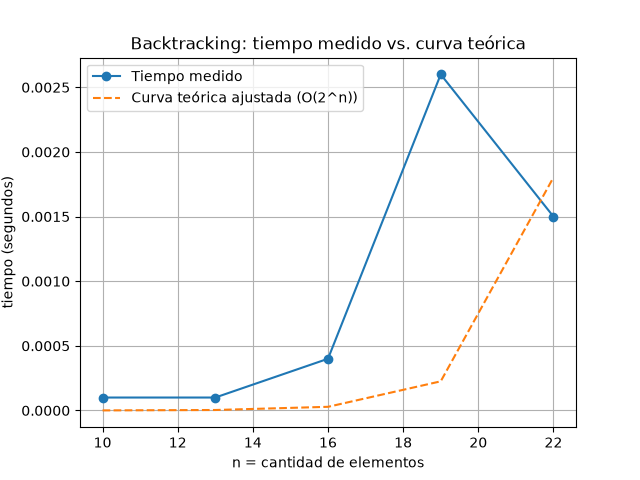
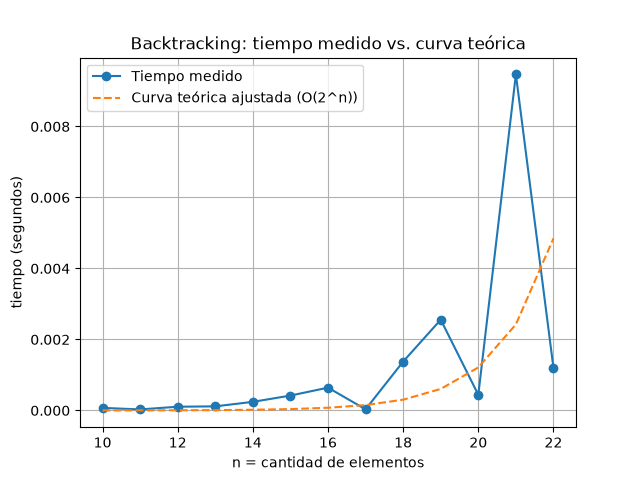
feat: nuevos graficos y corrida con mas muestras

diff --git a/problema_1/solucion_fuerza_bruta.py b/problema_1/solucion_fuerza_bruta.py
@@ -15,9 +15,8 @@ beneficio total.
 Se implementa asi intencionalmente (sin poda): sirve como base de
 comparacion contra la version con backtracking (con poda) que se resuelve
 en otro archivo. Por eso mismo, solo es practico para valores de n chicos;
-este script procesa los archivos mochila10.txt, mochila13.txt,
-mochila16.txt, mochila19.txt y mochila22.txt generados por
-crear_mochila.py, y guarda los tiempos obtenidos en un CSV para poder
+este script procesa los archivos mochila10.txt ... mochila22.txt (uno por
+cada n entre 10 y 22) generados por crear_mochila.py, y guarda los tiempos obtenidos en un CSV para poder
 graficarlos despues.
 """
 
@@ -27,13 +26,12 @@ import time
 
 # Archivos de mochila a procesar, en orden creciente de tamano. Se asume
 # que estan en la subcarpeta casos/, generados con crear_mochila.py.
-ARCHIVOS_MOCHILA = [
-    "mochila10.txt",
-    "mochila13.txt",
-    "mochila16.txt",
-    "mochila19.txt",
-    "mochila22.txt",
-]
+ARCHIVOS_MOCHILA = [f"mochila{n}.txt" for n in range(10, 23)]
+
+# Cantidad de veces que se resuelve cada archivo. El tiempo que se guarda
+# es el promedio de todas las repeticiones, para que una medicion aislada
+# afectada por ruido del sistema no distorsione los graficos.
+REPETICIONES = 5
 
 # Carpeta donde vive este script y subcarpeta donde estan los archivos de
 # entrada. El CSV de salida se sigue guardando junto al script.
@@ -131,11 +129,14 @@ if __name__ == "__main__":
         capacidad, items = parsear_mochila(ruta_archivo)
         n = len(items)
 
-        inicio = time.perf_counter()
-        beneficio_maximo, indices_elegidos, peso_total = fuerza_bruta(capacidad, items)
-        fin = time.perf_counter()
+        tiempos = []
+        for _ in range(REPETICIONES):
+            inicio = time.perf_counter()
+            beneficio_maximo, indices_elegidos, peso_total = fuerza_bruta(capacidad, items)
+            fin = time.perf_counter()
+            tiempos.append(fin - inicio)
 
-        tiempo_ejecucion = fin - inicio
+        tiempo_ejecucion = sum(tiempos) / REPETICIONES
 
         print(
             f"n={n} | capacidad={capacidad} | beneficio_maximo={beneficio_maximo} "
@@ -148,7 +149,7 @@ if __name__ == "__main__":
                 "capacidad": capacidad,
                 "beneficio_maximo": beneficio_maximo,
                 "peso_usado": peso_total,
-                "tiempo_segundos": round(tiempo_ejecucion, 6),
+                "tiempo_segundos": round(tiempo_ejecucion, 8),
             }
         )
 

diff --git a/problema_1/solucion_backtracking.py b/problema_1/solucion_backtracking.py
@@ -33,13 +33,12 @@ import time
 
 # Archivos de mochila a procesar, en orden creciente de tamano. Se asume
 # que estan en la subcarpeta casos/, generados con crear_mochila.py.
-ARCHIVOS_MOCHILA = [
-    "mochila10.txt",
-    "mochila13.txt",
-    "mochila16.txt",
-    "mochila19.txt",
-    "mochila22.txt",
-]
+ARCHIVOS_MOCHILA = [f"mochila{n}.txt" for n in range(10, 23)]
+
+# Cantidad de veces que se resuelve cada archivo. El tiempo que se guarda
+# es el promedio de todas las repeticiones, para que una medicion aislada
+# afectada por ruido del sistema no distorsione los graficos.
+REPETICIONES = 5
 
 # Carpeta donde vive este script y subcarpeta donde estan los archivos de
 # entrada. El CSV de salida se sigue guardando junto al script.
@@ -180,11 +179,14 @@ if __name__ == "__main__":
         capacidad, items = parsear_mochila(ruta_archivo)
         n = len(items)
 
-        inicio = time.perf_counter()
-        beneficio_maximo, indices_elegidos, peso_total = mochila_backtracking(capacidad, items)
-        fin = time.perf_counter()
+        tiempos = []
+        for _ in range(REPETICIONES):
+            inicio = time.perf_counter()
+            beneficio_maximo, indices_elegidos, peso_total = mochila_backtracking(capacidad, items)
+            fin = time.perf_counter()
+            tiempos.append(fin - inicio)
 
-        tiempo_ejecucion = fin - inicio
+        tiempo_ejecucion = sum(tiempos) / REPETICIONES
 
         print(
             f"n={n} | capacidad={capacidad} | beneficio_maximo={beneficio_maximo} "
@@ -197,7 +199,7 @@ if __name__ == "__main__":
                 "capacidad": capacidad,
                 "beneficio_maximo": beneficio_maximo,
                 "peso_usado": peso_total,
-                "tiempo_segundos": round(tiempo_ejecucion, 4),
+                "tiempo_segundos": round(tiempo_ejecucion, 8),
             }
         )
 

diff --git a/problema_1/crear_mochila.py b/problema_1/crear_mochila.py
@@ -16,7 +16,7 @@ def crear_mochila(n):
         arch.write(str(peso)+","+str(benef)+"\n")
     arch.close()
     
-for n in [10, 13, 16, 19, 22]:
+for n in range(10, 23):
     crear_mochila(n)
 
 # Esta función crea una mochila con una lista del tamaño indicado como parámetro

diff --git a/problema_1/README.md b/problema_1/README.md
@@ -17,7 +17,7 @@ Ambos enfoques llegan exactamente al mismo resultado óptimo; lo que cambia es e
 |---|---|
 | `casos/` | Archivos `.txt` con las instancias de mochila a resolver, generados por `crear_mochila.py`. |
 | `graficos/` | Gráficos `.png` generados por `graficos.py`. |
-| `crear_mochila.py` | Genera los casos de prueba (`mochila10.txt`, `mochila13.txt`, `mochila16.txt`, `mochila19.txt`, `mochila22.txt`) dentro de `casos/`. |
+| `crear_mochila.py` | Genera los casos de prueba (`mochila10.txt` ... `mochila22.txt`, uno por cada n entre 10 y 22) dentro de `casos/`. |
 | `solucion_fuerza_bruta.py` | Lee los casos de `casos/`, resuelve cada uno por fuerza bruta y guarda los tiempos en `tiempos_fuerza_bruta.csv`. |
 | `solucion_backtracking.py` | Lee los mismos casos de `casos/`, los resuelve por backtracking y guarda los tiempos en `tiempos_backtracking.csv`. |
 | `graficos.py` | Lee ambos CSV y genera los tres gráficos comparativos dentro de `graficos/`. |
@@ -39,7 +39,9 @@ El orden importa: sin correr `crear_mochila.py` primero no hay archivos para lee
 
 ## Nota sobre los datos
 
-`crear_mochila.py` no usa una semilla fija, así que los datos generados (y por lo tanto los tiempos exactos medidos) van a variar levemente entre corridas. El análisis de por qué el tiempo de backtracking no es estrictamente creciente con `n` (depende de qué tan efectiva resulta la poda para cada instancia particular, no solo del tamaño) se desarrolla en el informe, no en este README.
+`crear_mochila.py` no usa una semilla fija, así que los datos generados (y por lo tanto los tiempos exactos medidos) van a variar levemente entre corridas.
+
+Cada caso se resuelve 5 veces (`REPETICIONES` en cada script de solución) y en el CSV se guarda el tiempo promedio, para reducir el ruido de mediciones aisladas. El análisis de por qué el tiempo de backtracking no es estrictamente creciente con `n` (depende de qué tan efectiva resulta la poda para cada instancia particular, no solo del tamaño) se desarrolla en el informe, no en este README.
 
 ## Requerimientos
 
